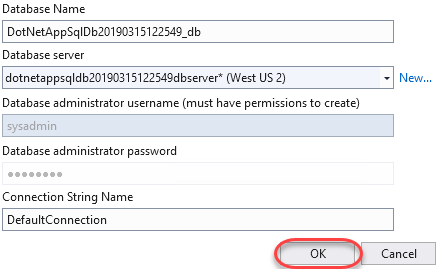
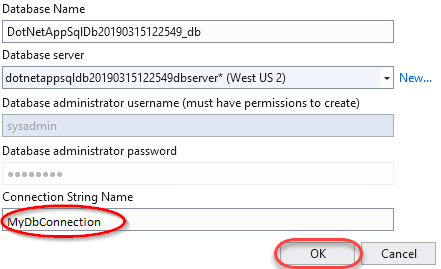
updated lab content (#345)

Changed region(s): [[0.0, 0.7435, 0.2948, 0.9219]]

diff --git a/labs/devopsserver/aspnetazure/readme.md b/labs/devopsserver/aspnetazure/readme.md
@@ -66,7 +66,7 @@ You also need an [Azure account](https://azure.microsoft.com/) ([Get a $25 month
 
     ![](images/005.png)
 
-1. Set the **New resource group name** to **"MyResourceGroup"**and click **OK**.
+1. Set the **New resource group name** to **MyResourceGroup** and click **OK**.
 
     ![](images/006.png)
 
@@ -90,7 +90,7 @@ You also need an [Azure account](https://azure.microsoft.com/) ([Get a $25 month
 
     ![](images/011.png)
 
-1. After configuring the server, you will also need to define a database to create on that server. Click **OK** to accept the defaults.
+1. After configuring the server, you will also need to define a database to create on that server. In the application we are using **MyDbConnection** as Connection String Name. So, please make sure to change the Connection String Name to **MyDbConnection** as shown in below image. Click **OK** to accept the defaults.
 
     ![](images/012.png)
 
@@ -289,7 +289,9 @@ You also need an [Azure account](https://azure.microsoft.com/) ([Get a $25 month
 
     ![](images/040.png)
 
-1. Select the **Diagnostic logs** tab. Set the application logging **Level** to **Verbose**. This will include all traces. Other settings include anything as severe as the specified traces. For example, **Warning** will include **TraceWarning()** and **TraceError()**, but not **TraceInformation()** or **WriteLine()**. Click **Save**.
+   > When you click on **Open in Portal** you may prompted to a screen which will be having two options. **Download the Azure Portal app** or **Continue to Azure Portal website**. Please select **Continue to Azure Portal website** and log in to the Azure Portal if necessary.
+
+1. Select the **App Service logs** tab. Set the application logging **Level** to **Verbose**. This will include all traces. Other settings include anything as severe as the specified traces. For example, **Warning** will include **TraceWarning()** and **TraceError()**, but not **TraceInformation()** or **WriteLine()**. Click **Save**.
 
     ![](images/041.png)
 
@@ -302,12 +304,12 @@ You also need an [Azure account](https://azure.microsoft.com/) ([Get a $25 month
     ![](images/043.png)
 
 <a name="Ex1Task6_1"></a>
-### Task 6: Managing your Azure web app ###
+### Task 7: Managing your Azure web app ###
 
-    ![](images/044.png)
 
 1. If you want to delete this web app, you can click **Delete** and follow the confirmation instructions. However, that would only delete the web app component of your deployment. If you would like to delete everything created as part of this lab at once, you can do so by navigating to the **MyResourceGroup** resource group that contains all of the resources created in this lab.
-
+     
+     ![](images/044.png)
     ![](images/045.png)
 
 1. You can then follow the **Delete resource group** workflow to remove them all.
